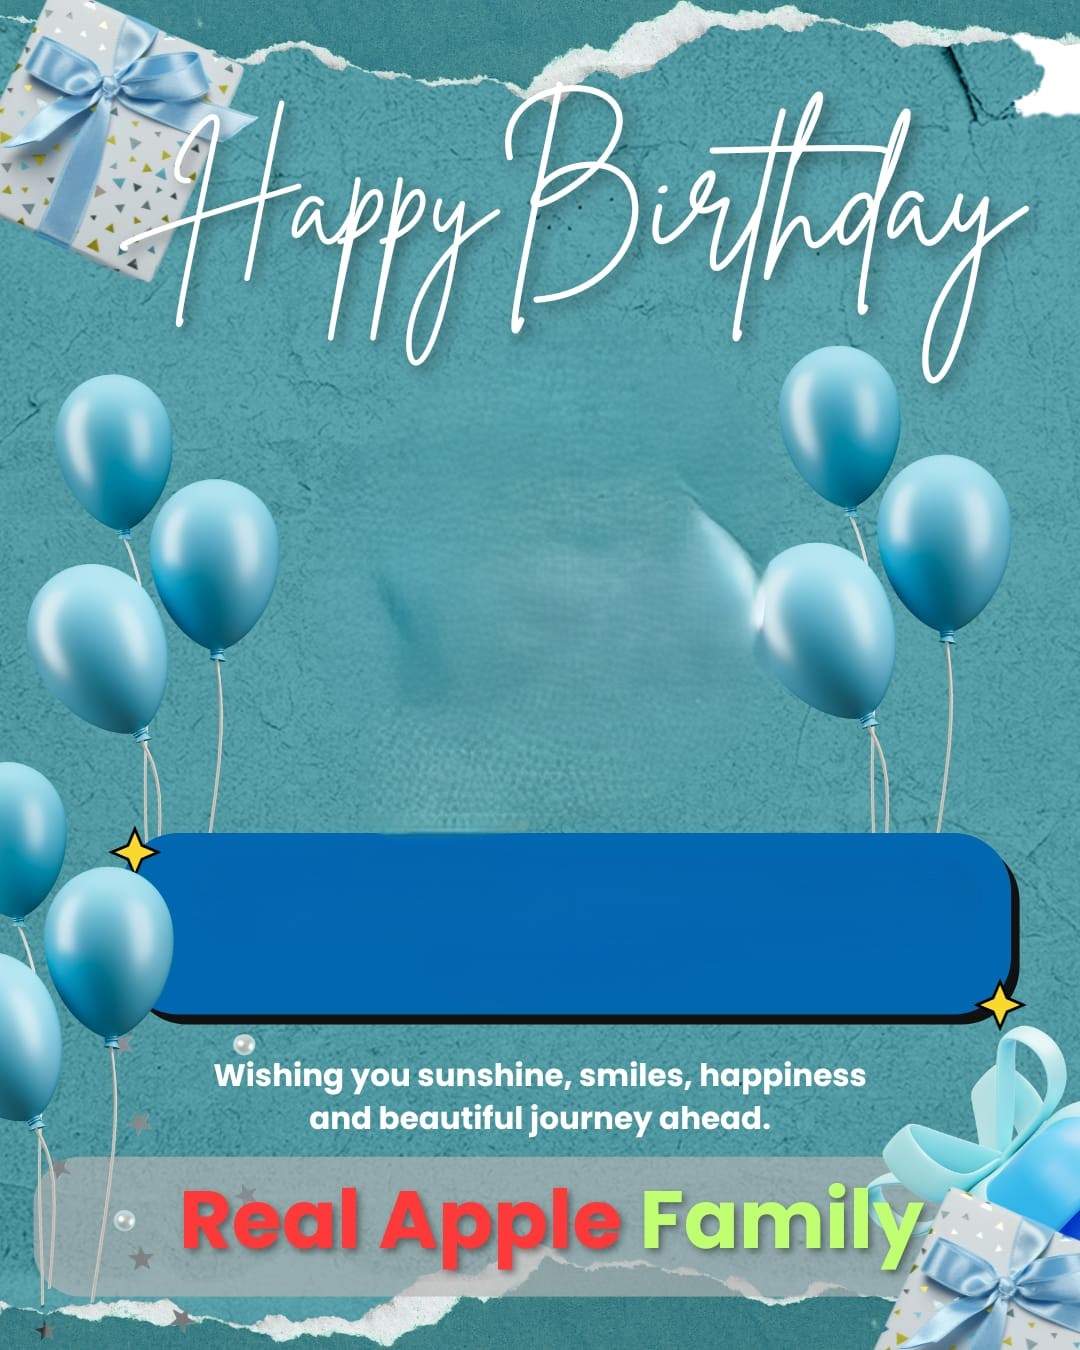
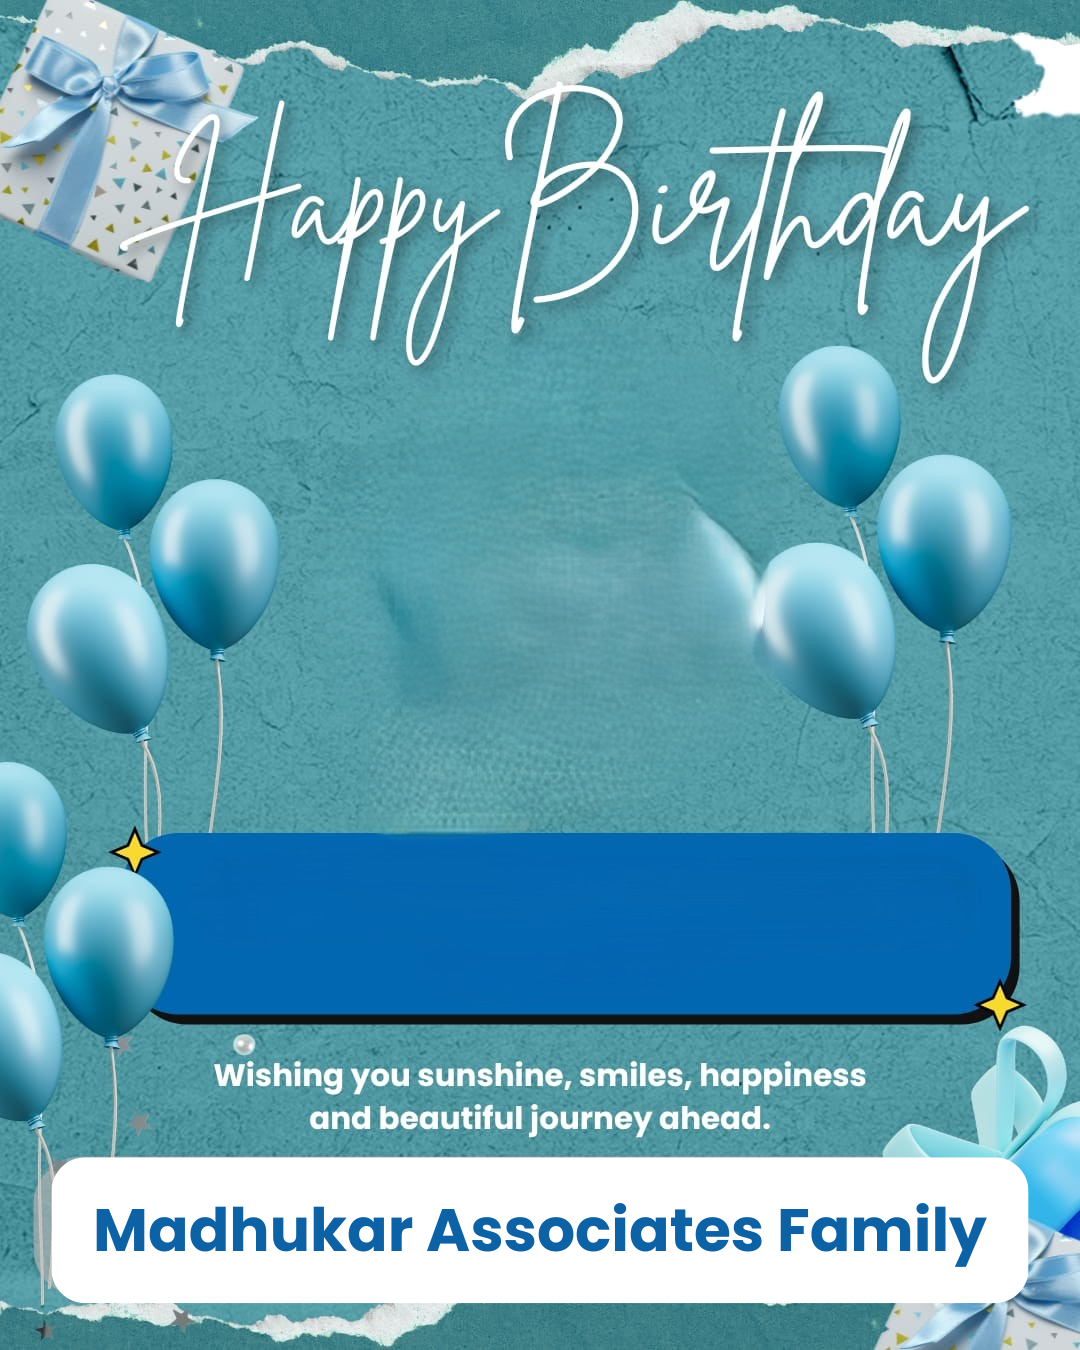
Update on Button

Changed region(s): [[0.0306, 0.84, 0.9778, 0.9644]]

diff --git a/src/components/custom/MasterFilter.js b/src/components/custom/MasterFilter.js
@@ -3,7 +3,15 @@ import { useCombobox } from 'downshift';
 import { CHeaderNav } from '@coreui/react';
 import { useNavigate } from 'react-router-dom';
 import { useDispatch } from 'react-redux';
+import moment from 'moment';
 import BasicProvider from 'src/constants/BasicProvider';
+
+const formatInitiateDate = (item) => {
+    const date = item?.date_initiation_bank || item?.date_initiation_RA;
+    if (!date) return '';
+    const formatted = moment(date);
+    return formatted.isValid() ? formatted.format('DD MMM YYYY') : '';
+};
 
 const MasterFilter = ({ userData }) => {
     const navigate = useNavigate();
@@ -44,6 +52,7 @@ const MasterFilter = ({ userData }) => {
                 name: item?.applicant_name || 'Unknown',
                 value: item?.applicant_name || 'Unknown',
                 financeName: item?.finance_name?.name || (typeof item?.finance_name === 'string' ? item.finance_name : '') || '',
+                initiateDate: formatInitiateDate(item),
                 url: `/case/${item?._id}/show-case-details/by/${roleName}`,
             }));
 
@@ -180,8 +189,12 @@ const MasterFilter = ({ userData }) => {
                             }}
                         >
                             <div>{item.name}</div>
-                            {item.financeName ? (
-                                <div style={{ fontSize: '12px', color: '#6c757d', marginTop: '2px' }}>{item.financeName}</div>
+                            {(item.financeName || item.initiateDate) ? (
+                                <div style={{ fontSize: '12px', color: '#6c757d', marginTop: '2px' }}>
+                                    {item.financeName}
+                                    {item.financeName && item.initiateDate ? ' · ' : ''}
+                                    {item.initiateDate ? `Initiate: ${item.initiateDate}` : ''}
+                                </div>
                             ) : null}
                         </li>
                     ))}

diff --git a/src/components/RelievingLetter.js b/src/components/RelievingLetter.js
@@ -111,7 +111,7 @@ const RelievingLetterGenerator = () => {
   }
   const generatePrintBasedPDF = useCallback(
     (employeeData, refNumber, currentDate, employeePosition) => {
-      const companyName = employeeData.companyName || 'Real Apple Consultancy House'
+      const companyName = employeeData.companyName || 'Madhukar Associates'
       const { headerLogo, Steps } = getCompanyAssets(companyName)
       const location = employeeData.location || 'Ratlam'
       const CtcInNumber = employeeData.CtcInNumber || '0/-'
@@ -182,7 +182,7 @@ const RelievingLetterGenerator = () => {
 
           <div class="header">
     
-            <img src=${headerLogo} alt="Real Apple Consultancy House" style="max-width: 100%; margin: 0;" />
+            <img src=${headerLogo} alt="Madhukar Associates" style="max-width: 100%; margin: 0;" />
           </div>
 
           <div class="letter-details">
@@ -455,7 +455,7 @@ const RelievingLetterGenerator = () => {
           data.personal?.currentAddress || data.personal?.permanentAddress || 'Address not provided'
         const employeePosition = currentDesignation || 'Employee'
 
-        const companyName = data.employment?.companyName || 'Real Apple Consultancy House'
+        const companyName = data.employment?.companyName || 'Madhukar Associates'
         const shortCompanyName =
           companyName
             .split(' ')

diff --git a/src/components/SALAgreementLetter.js b/src/components/SALAgreementLetter.js
@@ -36,7 +36,7 @@ const SALAgreementLetterGenerator = () => {
   }
   const generatePrintBasedPDF = useCallback(
     (employeeData, refNumber, currentDate, employeePosition) => {
-      const companyName = employeeData.companyName || 'Real Apple Consultancy House'
+      const companyName = employeeData.companyName || 'Madhukar Associates'
       const { headerLogo, Steps } = getCompanyAssets(companyName)
       const shortCompanyName = employeeData.shortCompanyName || 'Real Apple’s'
       const location = employeeData.location || 'Ratlam'
@@ -110,7 +110,7 @@ const SALAgreementLetterGenerator = () => {
 
           <div class="header">
     
-            <img src=${headerLogo} alt="Real Apple Consultancy House" style="max-width: 100%; margin: 0;" />
+            <img src=${headerLogo} alt="Madhukar Associates" style="max-width: 100%; margin: 0;" />
           </div>
 
           <div class="letter-details">
@@ -887,7 +887,7 @@ const SALAgreementLetterGenerator = () => {
         const employeePosition =
           defaultRoleOptions?.find((r) => String(r.value) === String(roleId))?.label || 'Employee'
 
-        const companyName = data.employment?.companyName || 'Real Apple Consultancy House'
+        const companyName = data.employment?.companyName || 'Madhukar Associates'
         const shortCompanyName =
           companyName
             .split(' ')

diff --git a/src/components/WelcomeLetterGenerator.js b/src/components/WelcomeLetterGenerator.js
@@ -36,7 +36,7 @@ const WelcomeLetterGenerator = () => {
   }
   const generatePrintBasedPDF = useCallback(
     (employeeData, refNumber, currentDate, employeePosition) => {
-      const companyName = employeeData.companyName || 'Real Apple Consultancy House'
+      const companyName = employeeData.companyName || 'Madhukar Associates'
       const { headerLogo, Steps } = getCompanyAssets(companyName)
       const shortCompanyName = employeeData.shortCompanyName
       const location = employeeData.location || 'Ratlam'
@@ -113,7 +113,7 @@ const WelcomeLetterGenerator = () => {
 
           <div class="header">
     
-            <img src=${headerLogo} alt="Real Apple Consultancy House" style="max-width: 100%; margin: 0;" />
+            <img src=${headerLogo} alt="Madhukar Associates" style="max-width: 100%; margin: 0;" />
           </div>
 
           <div class="letter-details">
@@ -393,7 +393,7 @@ const WelcomeLetterGenerator = () => {
         const employeePosition =
           defaultRoleOptions?.find((r) => String(r.value) === String(roleId))?.label || 'Employee'
 
-        const companyName = data.employment?.companyName || 'Real Apple Consultancy House'
+        const companyName = data.employment?.companyName || 'Madhukar Associates'
         const shortCompanyName =
           companyName
             .split(' ')

diff --git a/src/components/SalarySlipGenerator.js b/src/components/SalarySlipGenerator.js
@@ -56,7 +56,7 @@ const SalarySlipGenerator = () => {
 
   const generatePrintBasedPDF = useCallback(
     async (employeeData, payrollData, month, year, windowIndex = 0, companyAddress = '', notePurpose = 'both') => {
-      const companyName = employeeData.companyName || 'Real Apple Consultancy House'
+      const companyName = employeeData.companyName || 'Madhukar Associates'
       const { headerLogo } = getCompanyAssets(companyName)
       const location = employeeData.location || 'Ratlam'
       // Use provided company address or fallback to default
@@ -590,7 +590,7 @@ const SalarySlipGenerator = () => {
           data.designation ||
           'Employee'
 
-        const companyName = data.employment?.companyName || 'Real Apple Consultancy House'
+        const companyName = data.employment?.companyName || 'Madhukar Associates'
         const location = data.employment?.location || 'Ratlam'
         const address = data.employment?.address || 'MJR-06, Ratanpuri, 80Ft Road, Ratlam (M.P)'
         const contactNumber = data.profile?.phone || data.general?.phone || data.phone || ''

diff --git a/src/components/custom/MsiFilter.js b/src/components/custom/MsiFilter.js
@@ -544,7 +544,7 @@ const MsiFilter = ({
 
     // Add letterhead rows
     worksheet.mergeCells('A1:G1')
-    worksheet.getCell('A1').value = 'Real Apple Consultancy House'
+    worksheet.getCell('A1').value = 'Madhukar Associates'
     worksheet.getCell('A1').font = { size: 16, bold: true }
     worksheet.getCell('A1').alignment = { horizontal: 'center' }
 

diff --git a/src/views/hrms/celebration/CelebrationCard.jsx b/src/views/hrms/celebration/CelebrationCard.jsx
@@ -257,7 +257,7 @@ export const CelebrationCard = ({
 
           {/* Company Name */}
           <div className="work-anniversary-company">
-            ValuXpert Group
+            Madhukar Associates Group
           </div>
         </div>
       )
